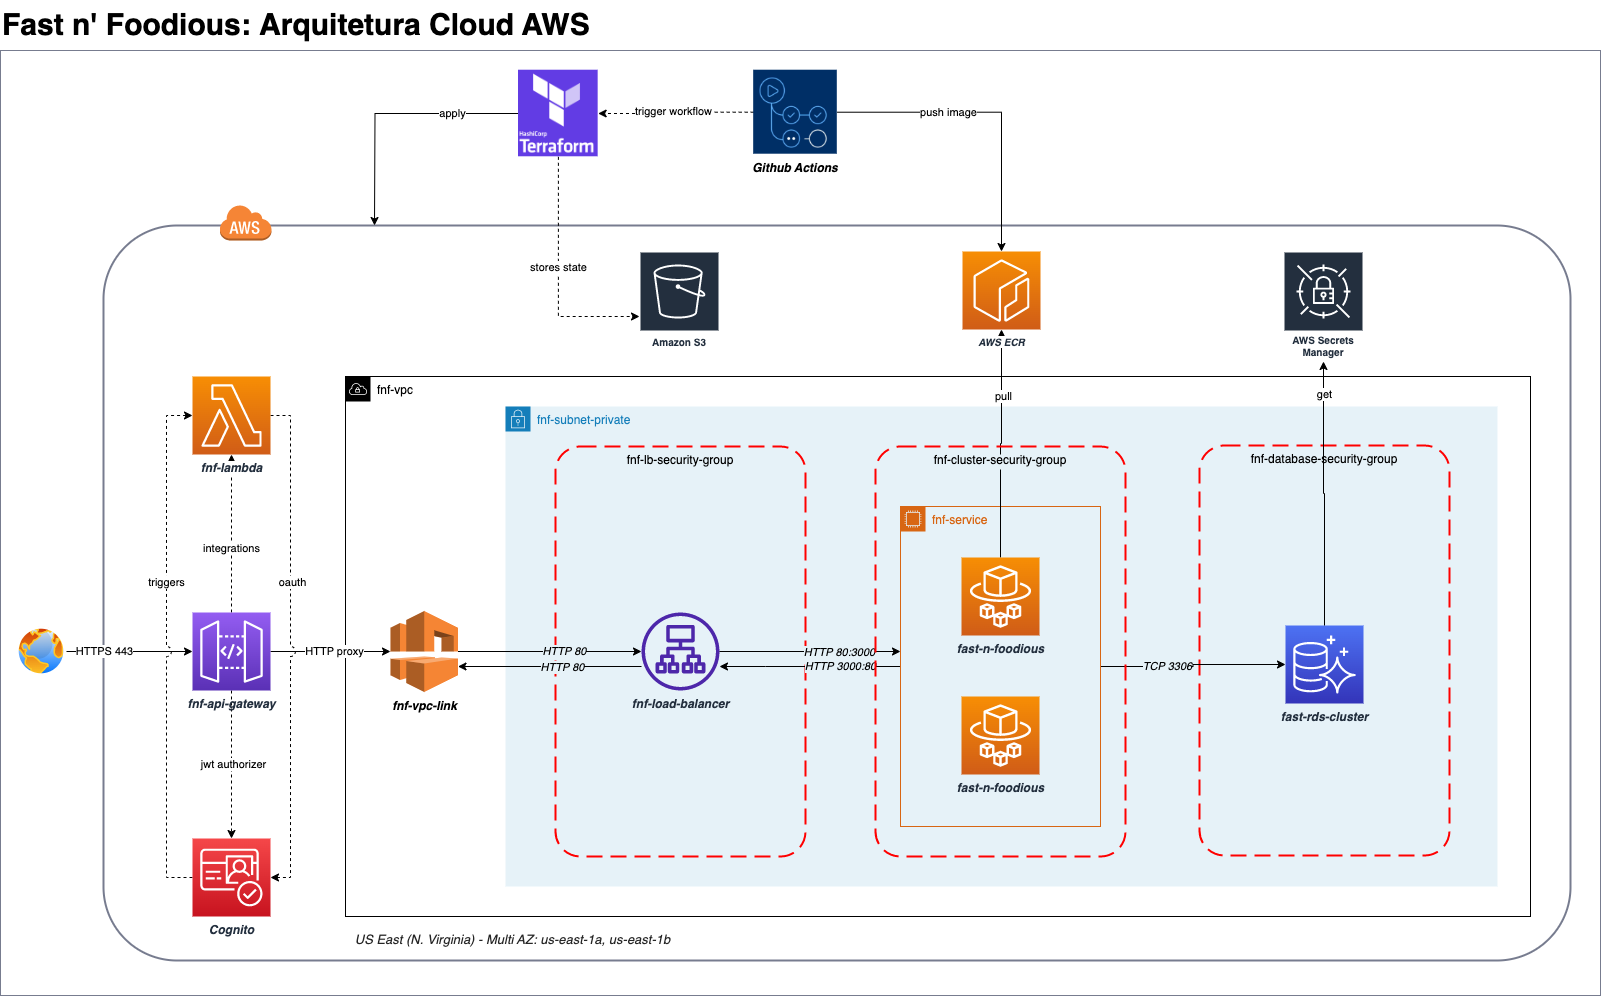
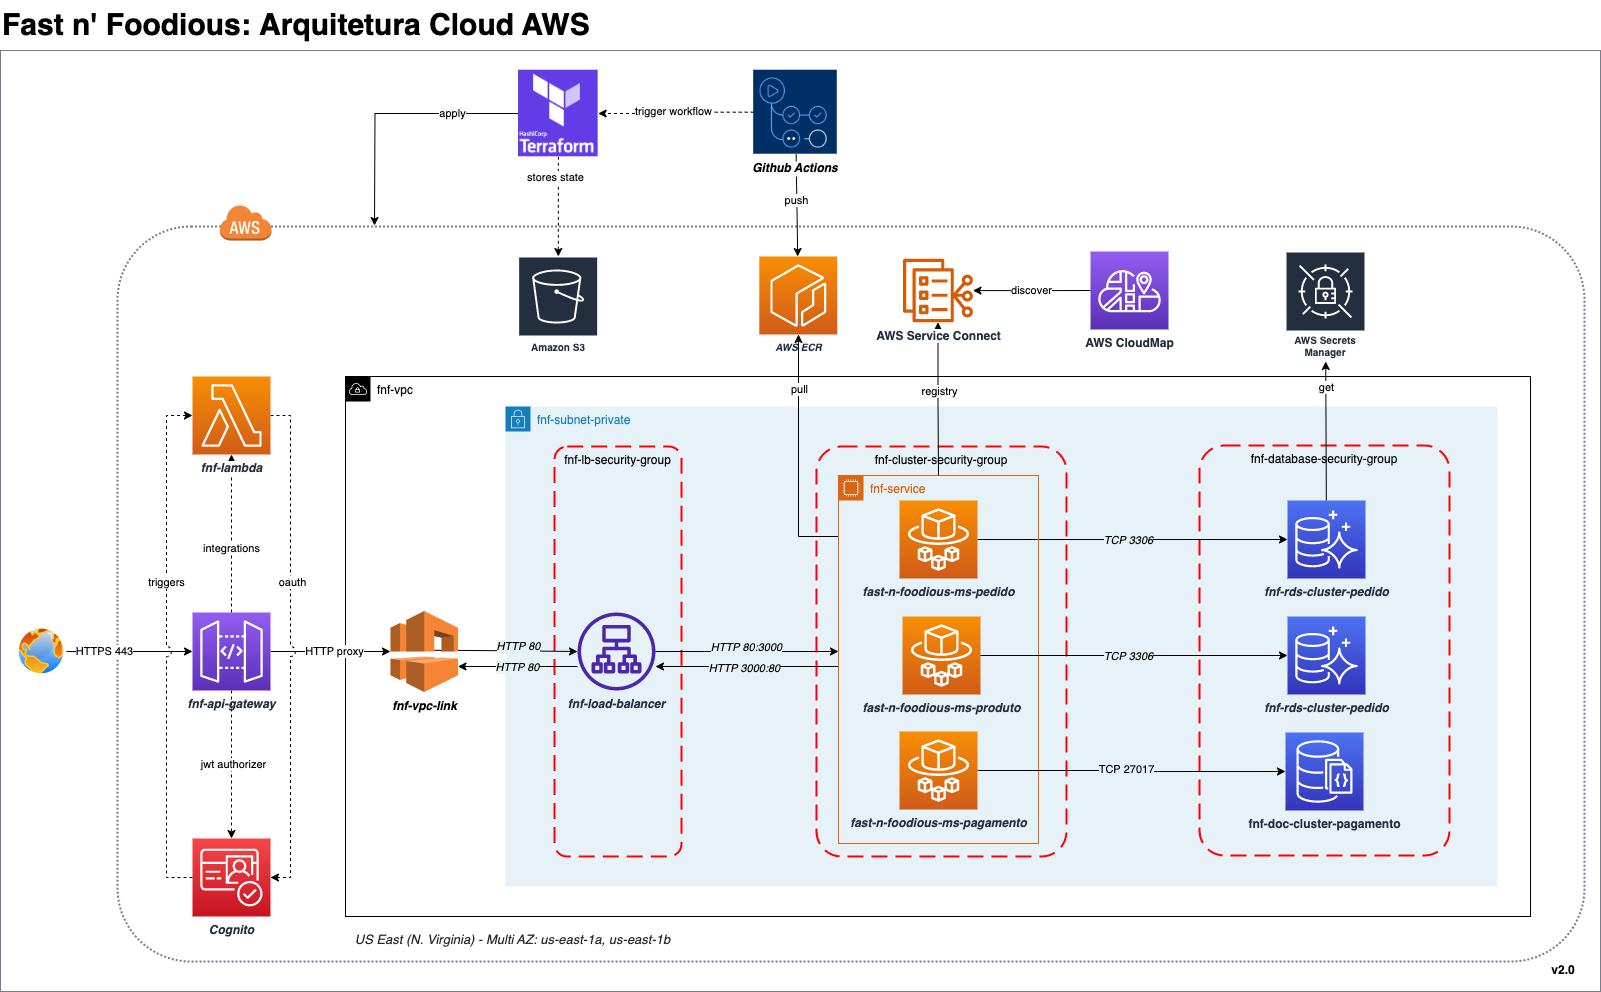
- Ajustes documentação

diff --git a/README.md b/README.md
@@ -2,13 +2,13 @@
 
 ![Static Badge](https://img.shields.io/badge/IaC-black?style=for-the-badge) ![Terraform](https://img.shields.io/badge/terraform-%235835CC.svg?style=for-the-badge&logo=terraform&logoColor=white)
 
-# 🍔 Fast & Foodious - IaC ![Github Actions](https://github.com/rodrigo-ottero/fast-n-foodious-iac-network/actions/workflows/fnf-pipeline.yml/badge.svg?branch=main) ![Static Badge](https://img.shields.io/badge/v3.0.0-version?logo=&color=%232496ED&labelColor=white&label=fast-n-foodious)
-Sistema de auto-atendimento de fast food. Projeto de conclusão da Fase 03 da pós gradução em Software Architecture.
+# 🍔 Fast & Foodious - IaC Network ![Github Actions](https://github.com/rodrigo-ottero/fast-n-foodious-iac-network/actions/workflows/fnf-pipeline.yml/badge.svg?branch=main) ![Static Badge](https://img.shields.io/badge/v2.0.0-version?logo=&color=%232496ED&labelColor=white&label=fast-n-foodious-iac-network)
+Sistema de auto-atendimento de fast food. Projeto de conclusão da Fase 04 da pós gradução em Software Architecture.
 
 ![fast-n-foodious-aws](fast-n-foodious-aws.png)
 
 
-## Módulo IaC: Network
+## Recursos
 Repositório de criação de infraestrutura cloud AWS, responsável por criar os seguintes recursos:
 
 ```
@@ -19,3 +19,22 @@ fast-n-foodious-iac-network
 ├── main.tf                                     # Definição de terraform providers e backend 
 ├── outputs.tf                                  # Definição de terraform outputs, necessários em módulos externos
 ```
+
+## Links Externos
+### Micro Serviços
+- [fast-n-foodious-ms-produto](https://github.com/rodrigo-ottero/fast-n-foodious-ms-produto)
+- [fast-n-foodious-ms-pagamento](https://github.com/rodrigo-ottero/fast-n-foodious-ms-pagamento)
+- [fast-n-foodious-ms-pedido](https://github.com/rodrigo-ottero/fast-n-foodious-ms-pedido)
+
+### IaC
+- [fast-n-foodious-iac-network](https://github.com/rodrigo-ottero/fast-n-foodious-iac-network)
+- [fast-n-foodious-iac-storage](https://github.com/rodrigo-ottero/fast-n-foodious-iac-storage)
+- [fast-n-foodious-iac-compute](https://github.com/rodrigo-ottero/fast-n-foodious-iac-compute)
+
+### Sonar
+- [fast-n-foodious-ms-produto](https://sonarcloud.io/summary/overall?id=fast-n-foodious-org_ms-produto)
+- [fast-n-foodious-ms-pagamento](https://sonarcloud.io/summary/overall?id=fast-n-foodious-org_fast-n-foodious-ms-pagamento)
+- [fast-n-foodious-ms-pedido](https://sonarcloud.io/summary/overall?id=fast-n-foodious-org_fast-n-foodious-ms-pedido)
+
+### Monday
+- [fast-n-foodious](https://fast-n-foodious.monday.com/workspaces/4361241)
